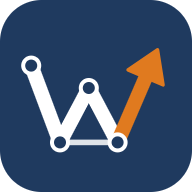
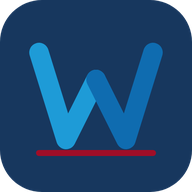
WIGO v105: novo ícone do app (W azul nas cores da Heca com base vermelha da GCE)

diff --git a/sw.js b/sw.js
@@ -1,7 +1,7 @@
 // Guarda o app no aparelho para abrir sem internet.
 // Ao alterar index.html, suba o número da versão para os celulares receberem a atualização.
 // Os PDFs dos projetos ficam num cache à parte ("armacao-pdfs"), que não é apagado nas atualizações.
-const VERSAO = "armacao-v104";
+const VERSAO = "armacao-v105";
 // bibliotecas de outros sites (versão fixa no endereço): cache próprio, que sobrevive às atualizações do app.
 // Antes ficavam no cache da versão e cada atualização baixava de novo ~4 MB no celular.
 const LIBS_CACHE = "armacao-libs-1";
